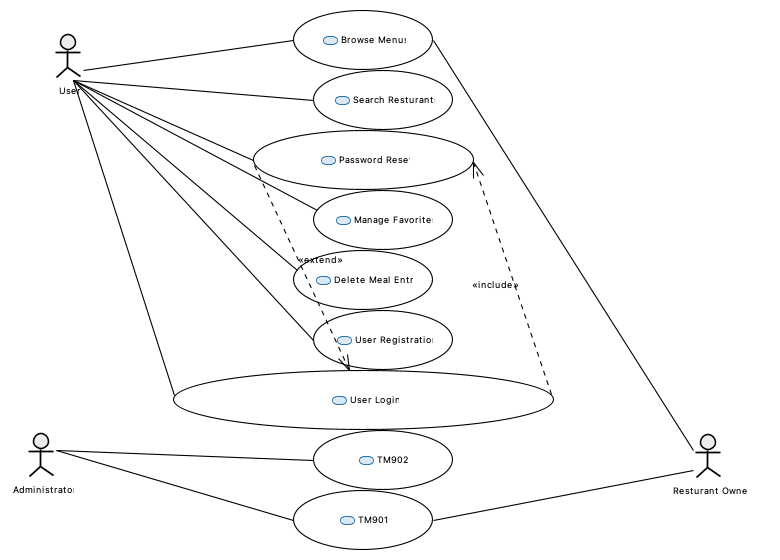
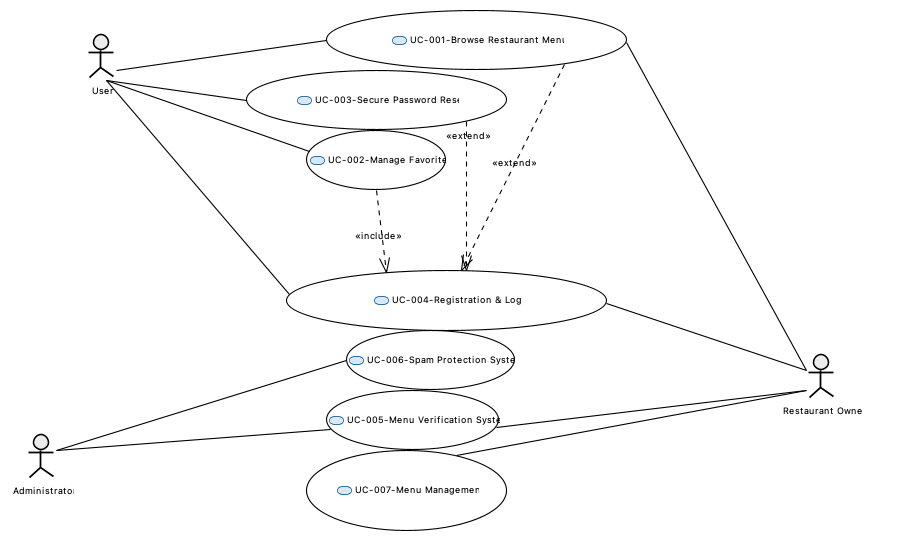
Replace placeholder diagrams with actual PNG exports from Papyrus
- Updated all 10 UML diagrams with real PNG files from Eclipse Papyrus
- Replaced placeholders with actual sequence diagrams, class diagrams, use case diagrams
- Added comprehensive activity flow diagrams and component diagrams
- Updated README files to reflect completion status
- All diagrams now ready for CEN4010 MenuMap project submission

diff --git a/UML_Diagrams/Diagrams_Only/README.md b/UML_Diagrams/Diagrams_Only/README.md
@@ -39,16 +39,16 @@ All diagrams listed above are required for the CEN4010 MenuMap project submissio
 
 ## 📁 File Status
 
-- ✅ **Existing**: 3 diagrams (Use Case, Class, User Login Sequence)
-- 🔄 **Placeholder**: 7 diagrams (awaiting PNG exports from Papyrus)
+- ✅ **Complete**: 10 diagrams (all required UML diagrams)
+- ✅ **Real PNG Files**: All diagrams exported from Eclipse Papyrus
 
-## 🚀 Next Steps
+## ✅ Status: Complete
 
-1. Open Eclipse Papyrus project: `MenuMap_UML_Design`
-2. Create/complete all missing diagrams
-3. Export each diagram as PNG to this folder
-4. Replace placeholder files with actual PNG exports
-5. Verify all diagrams meet submission requirements
+All required UML diagrams have been successfully:
+1. ✅ Created in Eclipse Papyrus project: `MenuMap_UML_Design`
+2. ✅ Exported as high-quality PNG files
+3. ✅ Organized in this Diagrams_Only folder
+4. ✅ Ready for project submission
 
 ---
 
